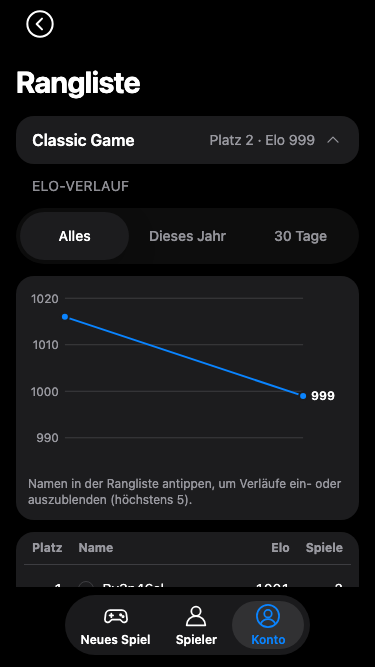
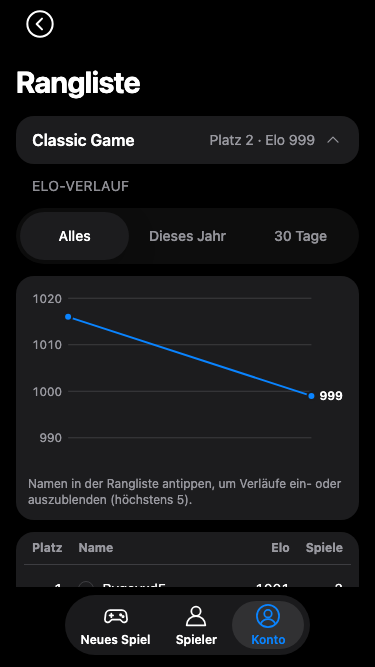
refactor(stats): measure chart labels, contrast steps for series colours
- TrendChart keeps its geometry in one documented CHART object and lays
  the plot out around the measured axis and value labels instead of an
  estimate per digit; without a value label the right margin shrinks
- "increase contrast" gets darker light-mode steps of the series hues
  (3:1 on white and the grouped grey, colour-blind check passed)
- theme.md explains why the series are not the iOS system colours

diff --git a/src/components/screens/stats/trend-chart.tsx b/src/components/screens/stats/trend-chart.tsx
@@ -1,6 +1,6 @@
 "use client";
 
-import { useState } from "react";
+import { useLayoutEffect, useState } from "react";
 import { useElementSize } from "@/components/ui/use-element-size";
 
 /** Clean y ticks (steps of 10, 20, 50 or 100, at most about six lines) around [min, max]; one step either side when equal. */
@@ -35,11 +35,35 @@ export function SeriesDot({ color }: { color: number | null }) {
 /** One line: a value per slot, `null` where the series has none (the line runs on to its next value). */
 export type TrendSeries = { id: string; name: string; color: number; values: (number | null)[] };
 
-/** Size before the first measurement (server render); the height matches the `h-chart` token. */
-const FALLBACK = { width: 320, height: 160 } as const;
-const PAD = { right: 44, top: 10, bottom: 10 } as const;
-/** Room for the y labels: at least three digits, more for longer ones (an Elo has four). */
-const leftPad = (ticks: number[]) => 9 + 7 * Math.max(3, ...ticks.map((v) => String(v).length));
+/**
+ * The chart's geometry in SVG pixels (the viewBox is the measured size, so these are CSS pixels). Colours,
+ * line widths and type come from theme classes; only coordinates live here, as they cannot be classes.
+ */
+const CHART = {
+  /** Size before the first measurement (server render); the height matches the `h-chart` token. */
+  fallback: { width: 320, height: 160 },
+  /** Room above the top and below the bottom grid line, so a picked point is not cut off. */
+  padY: 10,
+  /** Margin at the left and right edge of the SVG. */
+  edge: 4,
+  /** Between a y label and the plot; between the last point and its value. */
+  labelGap: 6,
+  valueGap: 8,
+  /** Point radius (an 8px mark, dataviz skill) and a picked point's. */
+  point: 4,
+  pointPicked: 6,
+  /** Width of one `text-xs` digit, only until the labels have been measured (server render, tests). */
+  digitEstimate: 7,
+} as const;
+
+/** Rendered widths of the widest y label and of the last-value label; `null` until measured. */
+type LabelWidths = { tick: number; value: number } | null;
+
+/** Width of the widest `<text>` matching `selector` in `svg`; 0 where the browser cannot measure text. */
+function textWidth(svg: SVGSVGElement, selector: string): number {
+  const texts = [...svg.querySelectorAll<SVGTextElement>(selector)];
+  return Math.max(0, ...texts.map((t) => (typeof t.getComputedTextLength === "function" ? t.getComputedTextLength() : 0)));
+}
 
 type Props = {
   /** Names the chart and its table. */
@@ -63,23 +87,37 @@ type Props = {
  */
 export function TrendChart({ label, slotHeader, slots, series, format, describe }: Props) {
   const [pickedKey, setPickedKey] = useState<string | null>(null);
-  const [svgRef, { width: W, height: H }] = useElementSize<SVGSVGElement>(FALLBACK);
+  const [svgRef, { width: W, height: H }] = useElementSize<SVGSVGElement>(CHART.fallback);
+  const [measured, setMeasured] = useState<LabelWidths>(null);
   const all = series.flatMap((s) => s.values.filter((v) => v !== null));
+  const ticks = all.length === 0 ? [] : niceTicks(Math.min(...all), Math.max(...all));
+  const lines = series.map((s) => ({ ...s, points: s.values.flatMap((v, i) => (v === null ? [] : [{ i, v }])) }));
+  const single = lines.length === 1 ? lines[0] : null;
+  const last = single?.points.at(-1);
+  const labels = `${ticks.join(",")}|${last ? format(last.v) : ""}`;
+  // Whenever the label texts change, measure them as drawn and lay the plot out around them (a second
+  // render only when a width changed, e.g. four-digit Elo instead of three-digit averages).
+  useLayoutEffect(() => {
+    const svg = svgRef.current;
+    if (!svg) return;
+    const next = { tick: textWidth(svg, "[data-label=tick]"), value: textWidth(svg, "[data-label=value]") };
+    if (next.tick === 0) return;
+    setMeasured((m) => (m?.tick === next.tick && m.value === next.value ? m : next));
+  }, [svgRef, labels]);
   if (slots.length === 0 || all.length === 0) return null;
   const found = slots.findIndex((s) => s.key === pickedKey);
   const picked = found === -1 ? null : found;
-  const ticks = niceTicks(Math.min(...all), Math.max(...all));
   const [lo, hi] = [ticks[0], ticks[ticks.length - 1]];
-  const left = leftPad(ticks);
-  const plotW = W - left - PAD.right;
+  const estimate = (texts: string[]) => CHART.digitEstimate * Math.max(0, ...texts.map((s) => s.length));
+  const tickW = measured?.tick ?? estimate(ticks.map(String));
+  const valueW = last ? (measured?.value ?? estimate([format(last.v)])) : 0;
+  const left = CHART.edge + tickW + CHART.labelGap;
+  const right = CHART.edge + (last ? CHART.valueGap + valueW : CHART.pointPicked);
+  const plotW = W - left - right;
   const x = (i: number) => left + (slots.length === 1 ? plotW / 2 : (i / (slots.length - 1)) * plotW);
-  const y = (v: number) => PAD.top + (1 - (v - lo) / (hi - lo)) * (H - PAD.top - PAD.bottom);
-  const lines = series.map((s) => {
-    const points = s.values.flatMap((v, i) => (v === null ? [] : [{ i, v }]));
-    return { ...s, points, d: points.map((p, n) => `${n === 0 ? "M" : "L"} ${x(p.i).toFixed(1)} ${y(p.v).toFixed(1)}`).join(" ") };
-  });
-  const single = lines.length === 1 ? lines[0] : null;
-  const last = single?.points.at(-1);
+  const y = (v: number) => CHART.padY + (1 - (v - lo) / (hi - lo)) * (H - 2 * CHART.padY);
+  const path = (points: { i: number; v: number }[]) =>
+    points.map((p, n) => `${n === 0 ? "M" : "L"} ${x(p.i).toFixed(1)} ${y(p.v).toFixed(1)}`).join(" ");
   const nearest = (e: React.PointerEvent<SVGSVGElement>) => {
     const box = e.currentTarget.getBoundingClientRect();
     const vx = ((e.clientX - box.left) / box.width) * W;
@@ -100,29 +138,47 @@ export function TrendChart({ label, slotHeader, slots, series, format, describe 
       >
         {ticks.map((v) => (
           <g key={v}>
-            <line x1={left} x2={W - PAD.right} y1={y(v)} y2={y(v)} className="stroke-separator stroke-1" />
-            <text x={left - 6} y={y(v)} textAnchor="end" dominantBaseline="central" className="fill-fg-muted text-xs">
+            <line x1={left} x2={W - right} y1={y(v)} y2={y(v)} className="stroke-separator stroke-1" />
+            <text
+              data-label="tick"
+              x={left - CHART.labelGap}
+              y={y(v)}
+              textAnchor="end"
+              dominantBaseline="central"
+              className="fill-fg-muted text-xs tabular-nums"
+            >
               {v}
             </text>
           </g>
         ))}
-        {picked !== null && <line x1={x(picked)} x2={x(picked)} y1={PAD.top} y2={H - PAD.bottom} className="stroke-fg-muted stroke-1" />}
+        {picked !== null && <line x1={x(picked)} x2={x(picked)} y1={CHART.padY} y2={H - CHART.padY} className="stroke-fg-muted stroke-1" />}
         {lines.map((s) => (
           <g key={s.id}>
-            <path d={s.d} className={`fill-none stroke-2 ${SERIES_COLORS[s.color].stroke}`} strokeLinejoin="round" strokeLinecap="round" />
+            <path
+              d={path(s.points)}
+              className={`fill-none stroke-2 ${SERIES_COLORS[s.color].stroke}`}
+              strokeLinejoin="round"
+              strokeLinecap="round"
+            />
             {s.points.map((p) => (
               <circle
                 key={slots[p.i].key}
                 cx={x(p.i)}
                 cy={y(p.v)}
-                r={picked === p.i ? 6 : 4}
+                r={picked === p.i ? CHART.pointPicked : CHART.point}
                 className={`stroke-card-bg stroke-2 ${SERIES_COLORS[s.color].fill}`}
               />
             ))}
           </g>
         ))}
         {last && (
-          <text x={x(last.i) + 8} y={y(last.v)} dominantBaseline="central" className="fill-fg text-xs font-semibold">
+          <text
+            data-label="value"
+            x={x(last.i) + CHART.valueGap}
+            y={y(last.v)}
+            dominantBaseline="central"
+            className="fill-fg text-xs font-semibold tabular-nums"
+          >
             {format(last.v)}
           </text>
         )}

diff --git a/src/components/screens/stats/trend-chart.test.tsx b/src/components/screens/stats/trend-chart.test.tsx
@@ -1,0 +1,58 @@
+import { render, screen } from "@testing-library/react";
+import { describe, expect, it } from "vitest";
+import { SeriesDot, TrendChart } from "./trend-chart";
+
+const slots = [
+  { key: "m1", caption: "eins" },
+  { key: "m2", caption: "zwei" },
+];
+const two = [
+  { id: "a", name: "Kim", color: 0, values: [1016, 1001] },
+  { id: "b", name: "Sam", color: 1, values: [984, null] },
+];
+const chart = (series = two) =>
+  render(<TrendChart label="Elo" slotHeader="Spiel" slots={slots} series={series} format={String} describe={() => ""} />);
+const cx = () => [...screen.getByRole("img", { name: "Elo" }).querySelectorAll("circle")].map((c) => Number(c.getAttribute("cx")));
+
+describe("TrendChart", () => {
+  it("several series: a legend, each line in its colour, a gap where a series has no value", () => {
+    chart();
+    const svg = screen.getByRole("img", { name: "Elo" });
+    expect([...svg.querySelectorAll("path")].map((p) => p.getAttribute("class"))).toEqual([
+      expect.stringContaining("stroke-series-1"),
+      expect.stringContaining("stroke-series-2"),
+    ]);
+    expect(svg.querySelectorAll("circle")).toHaveLength(3);
+    expect(screen.getByRole("list")).toHaveTextContent("KimSam");
+  });
+
+  it("lays the plot out around the measured label widths once the browser can measure text", () => {
+    // jsdom cannot measure text: the chart estimates; a browser reports the drawn width
+    const first = chart();
+    const estimated = cx()[0];
+    first.unmount();
+    Object.defineProperty(SVGElement.prototype, "getComputedTextLength", { configurable: true, value: () => 40 });
+    try {
+      chart();
+      const measured = cx();
+      // edge 4 + widest y label 40 + gap 6; several series have no value label, so the right edge is 320 − (4 + 6)
+      expect(measured[0]).toBe(50);
+      expect(measured[1]).toBe(310);
+      expect(measured[0]).not.toBe(estimated);
+    } finally {
+      delete (SVGElement.prototype as { getComputedTextLength?: unknown }).getComputedTextLength;
+    }
+  });
+
+  it("SeriesDot: the series colour, or an empty ring when the series is not shown", () => {
+    const { container } = render(
+      <>
+        <SeriesDot color={2} />
+        <SeriesDot color={null} />
+      </>,
+    );
+    const [on, off] = [...container.querySelectorAll("span")];
+    expect(on).toHaveClass("size-swatch", "bg-series-3");
+    expect(off).toHaveClass("size-swatch", "border-separator");
+  });
+});

diff --git a/src/app/globals.css b/src/app/globals.css
@@ -59,6 +59,8 @@
   /*
    * Lines of several players in one chart (Elo over time): categorical hues in a fixed order, the first is
    * the accent. Both modes are validated for colour-blind separation on the card ground (dataviz skill).
+   * Not the iOS system colours: their orange and green fail the colour-blind check and 3:1 on white
+   * (theme.md §1); "increase contrast" has darker steps below.
    */
   --series-1: var(--accent);
   --series-2: light-dark(#eb6834, #d95926);
@@ -88,6 +90,11 @@
   :root {
     --fg-muted: light-dark(rgb(60 60 67 / 0.78), rgb(235 235 245 / 0.75));
     --frame-active: light-dark(#0040dd, #409cff);
+    /* Chart lines: darker steps of the same hues reach 3:1 on white and the grouped grey (dark ones already do) */
+    --series-2: light-dark(#c4561f, #d95926);
+    --series-3: light-dark(#00806b, #199e70);
+    --series-4: light-dark(#a86a00, #c98500);
+    --series-5: light-dark(#c2477a, #d55181);
   }
 }
 

diff --git a/docs/theme.md b/docs/theme.md
@@ -42,6 +42,8 @@ iOS-Systemfarben sind mit ihren offiziellen Werten übersetzt (Light / Dark).
 | `--modifier-ring` | – (Fokus der Modifier in `ButtonsView`) | Ring um aktives Double/Triple | `--fg` 60 % | `--fg` 60 % |
 | `--heat-1` … `--heat-5` | – (neu, M8) | Feldtreffer-Heatmap auf der Dartscheibe: ein Farbton (Akzentblau), sequentiell nach Trefferanteil | oklch L 0,92 → 0,42 (hell → dunkel) | oklch L 0,32 → 0,80 (dunkel → hell) |
 | `--series-1` … `--series-5` | – (neu) | Linien mehrerer Spieler in einem Diagramm (Elo-Verlauf der Rangliste): feste Reihenfolge, die erste ist der Akzent; ein Spieler behält seine Farbe, solange er angezeigt wird | `--accent`, `#EB6834`, `#1BAF7A`, `#EDA100`, `#E87BA4` | `--accent`, `#D95926`, `#199E70`, `#C98500`, `#D55181` |
+
+**Linienfarben** (`--series-*`, 17.11.2026): nicht aus Legacy, weil die App kein Diagramm mit mehreren Linien hatte. Die naheliegenden iOS-Systemfarben (Orange `#FF9500`, Grün `#34C759`, Lila, Pink) wurden mit dem Paletten-Validator des Dataviz-Skills geprüft und fallen durch: Orange und Grün sind für Rot-Grün-Schwäche zu ähnlich (ΔE 7,1), haben auf Weiß nur 2,2:1 und sind im Dark Mode zu hell; ihre Hochkontrast-Varianten (`#C93400`, `#248A3D` …) scheitern in jeder Reihenfolge an der Farbfehlsichtigkeit. Deshalb eine geprüfte Kategorienpalette mit Akzentblau an erster Stelle. Im Hellmodus liegen Grün, Gelb und Pink unter 3:1 auf Weiß; das ist zulässig, weil jede Linie auch über Legende, Farbpunkt in der Ranglisten-Zeile und die Tabelle für Screenreader erkennbar ist. Mit „Kontrast erhöhen“ gelten dunklere Stufen derselben Farbtöne (siehe unten).
 | `--qr-bg` | – | heller Grund des QR-Codes (muss in beiden Modi scanbar sein) | `#FFFFFF` | `#FFFFFF` |
 | `--tab-bg` | Tab-Bar-Material | Tab-Leiste unten | `rgb(242 242 247 / .92)` | `rgb(28 28 30 / .92)` |
 
@@ -49,7 +51,7 @@ iOS-Systemfarben sind mit ihren offiziellen Werten übersetzt (Light / Dark).
 - Modifier aktiv (Double oder Triple): Zahlentasten `--key-bg` mit Opacity .75, Text in `--key-double` bzw. `--key-triple`; Bull im Triple-Modus bleibt weiß, im Legacy ist er ausgeblendet.
 - Dart-Plätze im Panel: Kästen (Radius 14 px) mit Rahmen 3 px in `--frame-text`, der aktuelle Platz 4 px in `--frame-active`, Text der gebusteten Aufnahme in `--key-undo`. Tasten, Panels und Checkout-Hinweis haben wie Legacy `cornerRadius(18)`.
 
-**Kontrast erhöhen** (`prefers-contrast: more`, Luca 11.11.2026, wie iOS): `--fg-muted` hell 78 % statt 60 %, dunkel 75 %; `--frame-active` und damit `--accent` im iOS-Blau für erhöhten Kontrast (`#0040DD` / `#409CFF`). Alle anderen sehen die Legacy-Farben. Damit erreicht kleiner grauer und blauer Text WCAG AA (4,5:1); `e2e/a11y.spec.ts` prüft den Kontrast mit dieser Einstellung. Offen (`docs/fragen.md`): weiße Schrift auf Double, Triple, Undo-Rot und der grauen Hinweis-Leiste.
+**Kontrast erhöhen** (`prefers-contrast: more`, Luca 11.11.2026, wie iOS): `--fg-muted` hell 78 % statt 60 %, dunkel 75 %; `--frame-active` und damit `--accent` im iOS-Blau für erhöhten Kontrast (`#0040DD` / `#409CFF`); die Linienfarben `--series-2` … `--series-5` im Hellmodus dunkler (`#C4561F`, `#00806B`, `#A86A00`, `#C2477A`), alle mindestens 3:1 auf Weiß und auf `--bg-grouped`, Farbfehlsichtigkeit bestanden (ΔE ≥ 9,5); im Dark Mode bleiben sie, dort haben sie schon mindestens 3:1. Alle anderen sehen die Legacy-Farben. Damit erreicht kleiner grauer und blauer Text WCAG AA (4,5:1); `e2e/a11y.spec.ts` prüft den Kontrast mit dieser Einstellung. Offen (`docs/fragen.md`): weiße Schrift auf Double, Triple, Undo-Rot und der grauen Hinweis-Leiste.
 
 Dark-Mode-Hinweis (geändert am 6.11.2026, Luca): Im Legacy war `--frame-bg` im Dark Mode zu 90 % weiß, die Panels also hell auf schwarzem Grund mit schwarzem Text, die Tasten mittelgrau; das war am Board zu hell. Jetzt nimmt der Zählscreen im Dark Mode die iOS-Dunkelgrautöne wie die Karten: Panels `#1C1C1E` mit weißem Text (`--frame-text`), Dart-Kästen Weiß 10 %, Rahmen inaktiver Panels `#3A3A3C`, Zifferntasten `#2C2C2E`, Taste 0 `#48484A`. Der Hellmodus und die farbigen Tasten bleiben wie Legacy. Prüfen über `docs/screenshots/*-dark.png` (`e2e/dark.spec.ts`).
 
@@ -72,7 +74,7 @@ Regeln für die Web-App:
 5. **Container Queries** für die Panels (`container-type: inline-size`), damit ein Panel in der Kleinvariante ohne JavaScript Average und Darts ausblendet.
 6. Keine festen Pixelhöhen außer der Touch-Mindesthöhe; keine `window.innerHeight`-Berechnungen in JavaScript.
 7. **Safe Areas**: `padding: env(safe-area-inset-*)` auf dem Grid, `viewport-fit=cover` im Meta-Tag, damit die PWA (M12) randlos sein kann.
-8. **Nur Tokens, kein Inline-Style, keine Ad-hoc-Werte.** Farben, Radien, feste Größen und fluide `clamp()`-Größen stehen als Tokens in `globals.css` (`@theme`: `--color-*`, `--radius-panel|slot|pill|tile|box`, `--shadow-floating`, `--text-title|display|fluid-sm|fluid-lg|fluid-xl`, `--spacing-row|tab|panel-x|keypad-gap|icon-inline|icon|icon-sm|icon-xs|avatar|swatch|check|icon-box|cta|qr|cricket-label|cricket-col|chart|banner|popover|popover-h|panel-sm|slot-w|slot-h|slot-gap`); Komponenten nutzen nur die daraus erzeugten Klassen (`rounded-panel`, `w-slot-w`, `gap-keypad-gap` …). Safe-Area-Abstände über `pt-safe`, `pb-safe`, `pb-safe-min`; wiederkehrende Layouts als `@utility` (`score-grid`, `header-grid`); fluide Schriftgrößen sind die Tokens `--text-fluid-sm|lg|xl` (Klassen `text-fluid-*`), Ziffern gleich breit mit `tabular-nums`. `style={…}` ist per ESLint verboten (`react/forbid-dom-props`), Tailwind-Ad-hoc-Werte wie `rounded-[18px]` sind es per Konvention: ein neuer Wert wird ein Token.
+8. **Nur Tokens, kein Inline-Style, keine Ad-hoc-Werte.** Farben, Radien, feste Größen und fluide `clamp()`-Größen stehen als Tokens in `globals.css` (`@theme`: `--color-*`, `--radius-panel|slot|pill|tile|box`, `--shadow-floating`, `--text-title|display|fluid-sm|fluid-lg|fluid-xl`, `--spacing-row|tab|panel-x|keypad-gap|icon-inline|icon|icon-sm|icon-xs|avatar|swatch|check|icon-box|cta|qr|cricket-label|cricket-col|chart|banner|popover|popover-h|panel-sm|slot-w|slot-h|slot-gap`); Komponenten nutzen nur die daraus erzeugten Klassen (`rounded-panel`, `w-slot-w`, `gap-keypad-gap` …). Safe-Area-Abstände über `pt-safe`, `pb-safe`, `pb-safe-min`; wiederkehrende Layouts als `@utility` (`score-grid`, `header-grid`); fluide Schriftgrößen sind die Tokens `--text-fluid-sm|lg|xl` (Klassen `text-fluid-*`), Ziffern gleich breit mit `tabular-nums`. `style={…}` ist per ESLint verboten (`react/forbid-dom-props`), Tailwind-Ad-hoc-Werte wie `rounded-[18px]` sind es per Konvention: ein neuer Wert wird ein Token. Ausnahme Diagramme: SVG-Koordinaten (Ränder, Punktradius, Abstände der Beschriftung) können keine Klassen sein; sie stehen gesammelt und kommentiert in `CHART` in `src/components/screens/stats/trend-chart.tsx`, die Breite der Achsen- und Wertbeschriftung wird gemessen statt geschätzt.
 
 Testgeräte für die DoD: iPhone-Breite 375 px hoch und quer, Tablet 768 px hoch und quer, Desktop-Fenster 1280 px. Der Zählscreen darf in keinem davon scrollen oder abschneiden.
 
